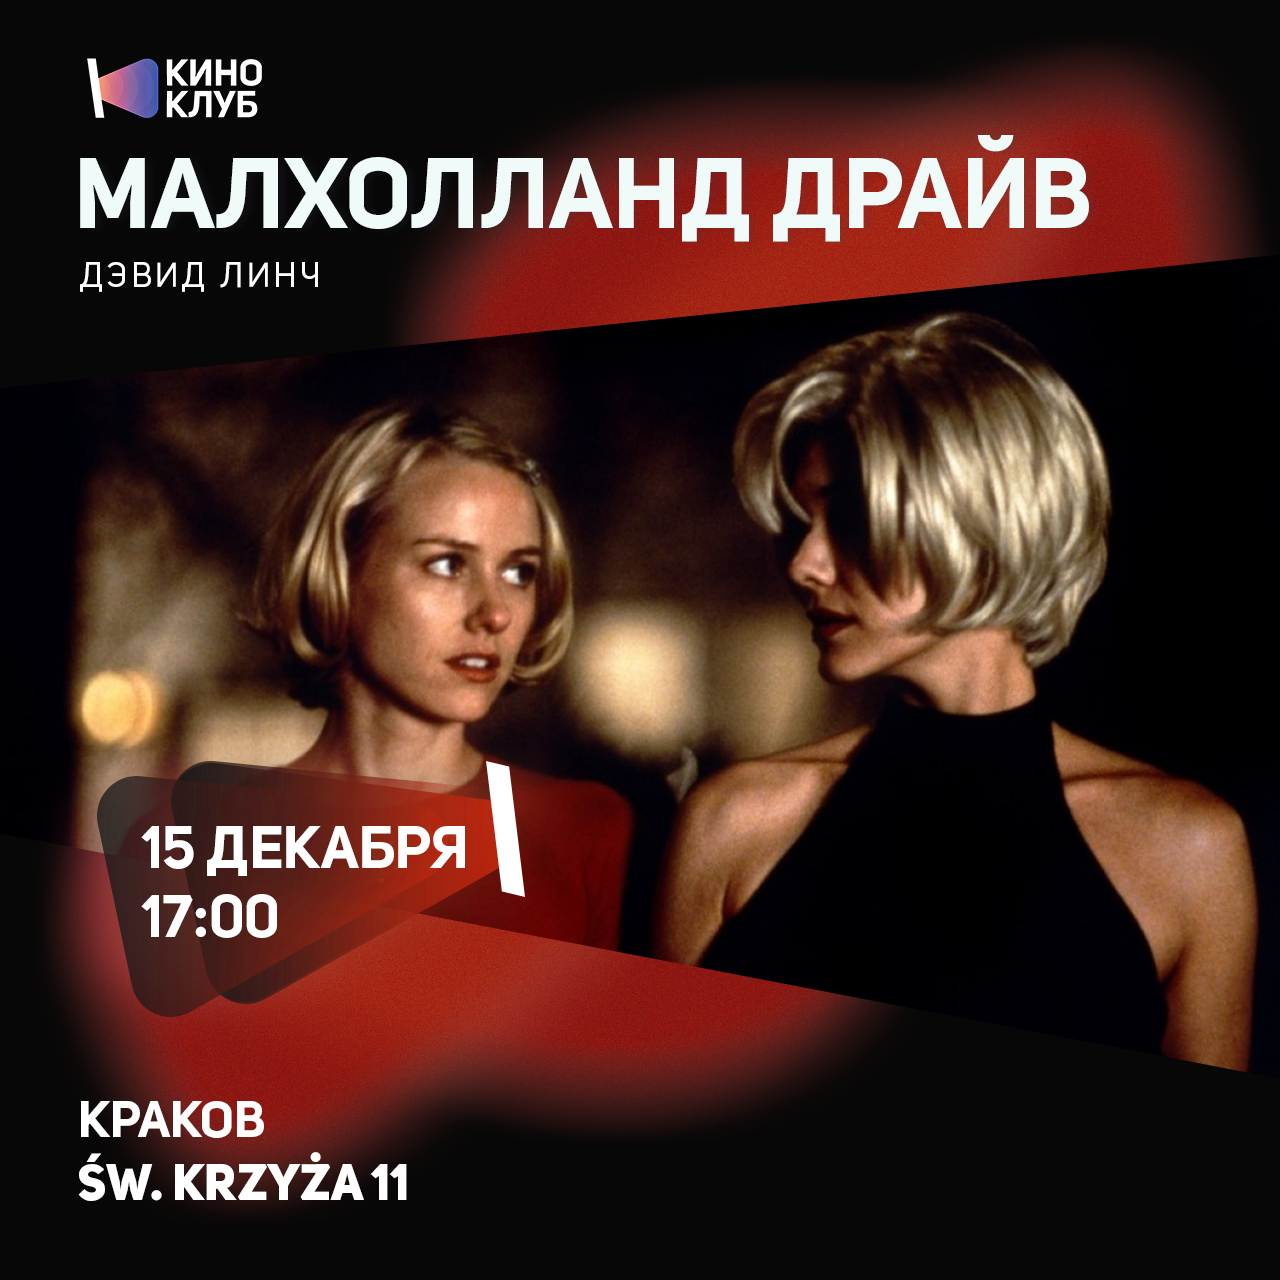
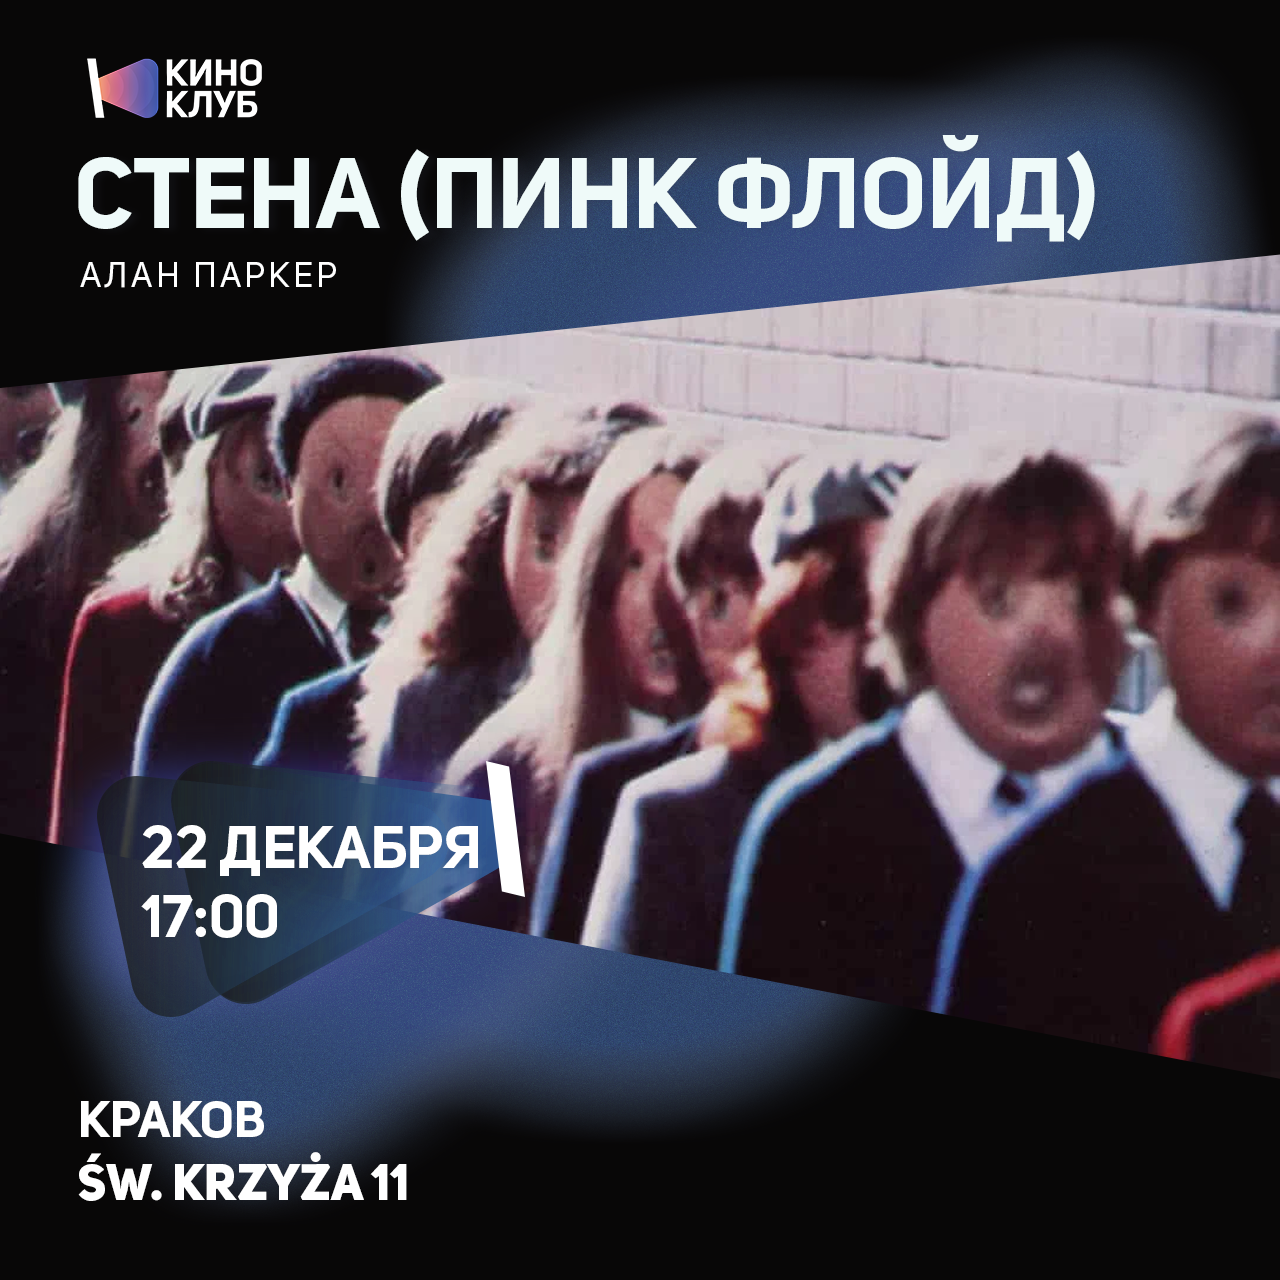
new version

diff --git a/KKautoFillTelegramNickGFBot/main.py b/KKautoFillTelegramNickGFBot/main.py
@@ -34,7 +34,7 @@ kb2 = InlineKeyboardBuilder()
 kb2.button(text='Приду', callback_data=CallBackMethod(string='register').pack())
 kb2.button(text='Не приду', callback_data=CallBackMethod(string='unregister').pack())
 kb2.adjust(2)
-caption = "<b>Киноклуб в Кракове!</b>\n\nСмотрим, обсуждаем, рассуждаем и делимся своими впечатлениями о фильме \"Малхолланд Драйв\". В кругу людей, любящих кино.\n\nВоскресенье.\n15 декабря. 17:00.\nКраков, Św. Krzyża 11.\n\nЯзык: русские субтитры.\n\nОграничение количества учаcтников нестрогое."
+caption = "<b>Киноклуб в Кракове!</b>\n\nСмотрим, обсуждаем, рассуждаем и делимся своими впечатлениями о фильме \"Стена\". В кругу людей, любящих кино.\n\nВоскресенье.\n22 декабря. 17:00.\nКраков, Św. Krzyża 11.\n\nЯзык: русские субтитры.\n\nОграничение количества учаcтников нестрогое."
 max = 15
 
 
